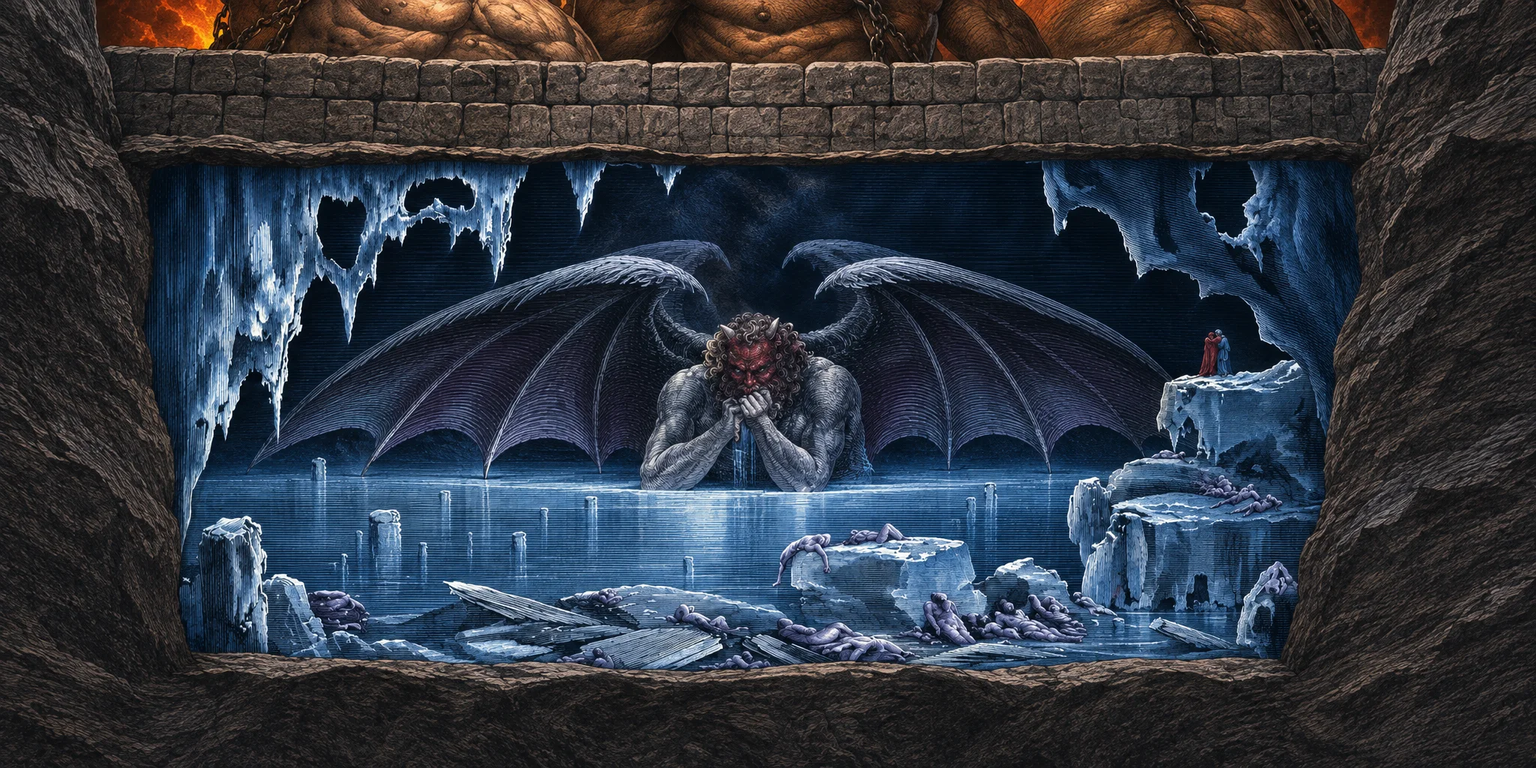
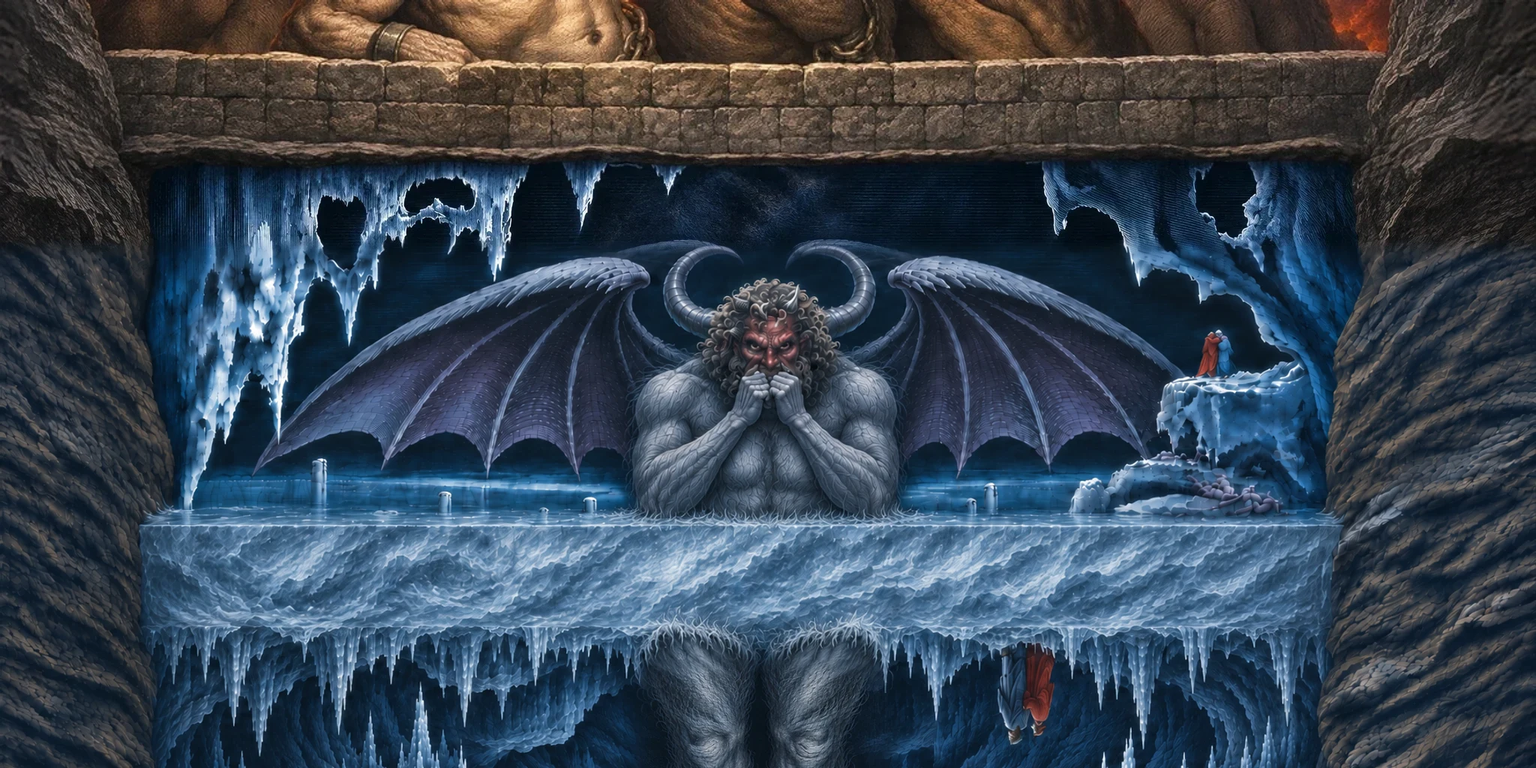
Repaint Lucifer as one figure whose legs are the cavern's own
He now faces the viewer, with Doré's level of hair, frozen into a solid
slab of ice. The legs under it are the legs of the cavern picture turned
over, so the roll at the center of the earth shows the same legs before
and after. The same figure is on the map of Hell and the close-up.

diff --git a/src/components/JourneyScroller.tsx b/src/components/JourneyScroller.tsx
@@ -53,7 +53,7 @@ const CLOSE_UP = 3.2;
 /** Where the middle of his legs is in the picture of the cavern, as a share of its height, and how wide the pair is, as a share of its width */
 const LEGS = { middle: 0.812, width: 0.2344 };
 /** The same in the picture of him above and below the ice, which is square */
-const UNDER_ICE = { x: 0.478, y: 0.553, width: 0.1055 };
+const UNDER_ICE = { x: 0.4987, y: 0.5026, width: 0.1219 };
 /** How much closer the view presses in halfway through the roll, so the turning picture fills it */
 const ROLL_IN = 0.8;
 /** The turn's three moves, as shares of its scroll: closing in, sinking under the ice, rolling over */
